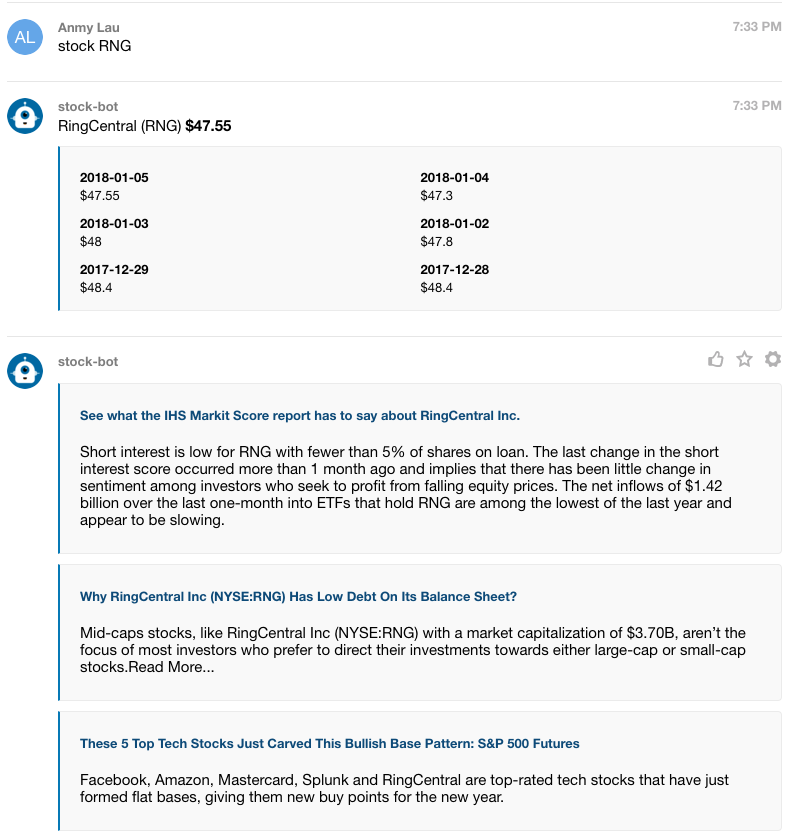
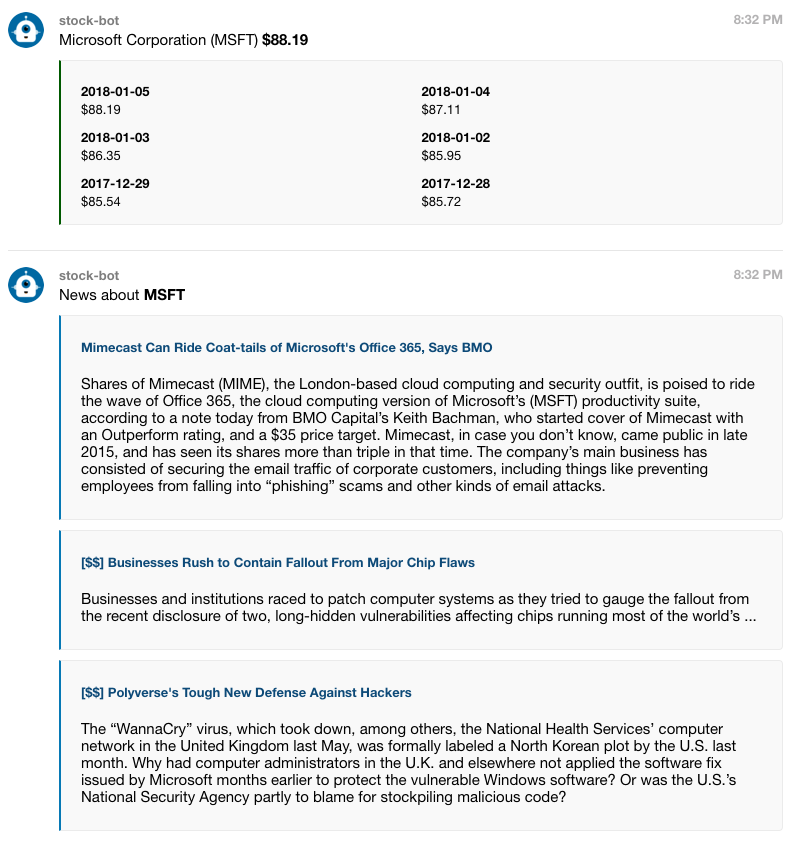
Update screenshots

diff --git a/index.js b/index.js
@@ -43,6 +43,7 @@ const sendStockMessage = async (symbol, groupId) => {
     attachments = [{
       type: 'Card',
       fallback: text,
+      color: '#006400',
       fields: R.map(entry => ({
         title: entry[0],
         value: '$' + entry[4],

diff --git a/README.md b/README.md
@@ -29,3 +29,5 @@ yarn ngrok
 Specify a stock symbol, and you will get its quotes for the recent 6 days together with 3 recent news about this stock.
 
 ![](screenshot.png)
+
+![](screenshot2.png)
